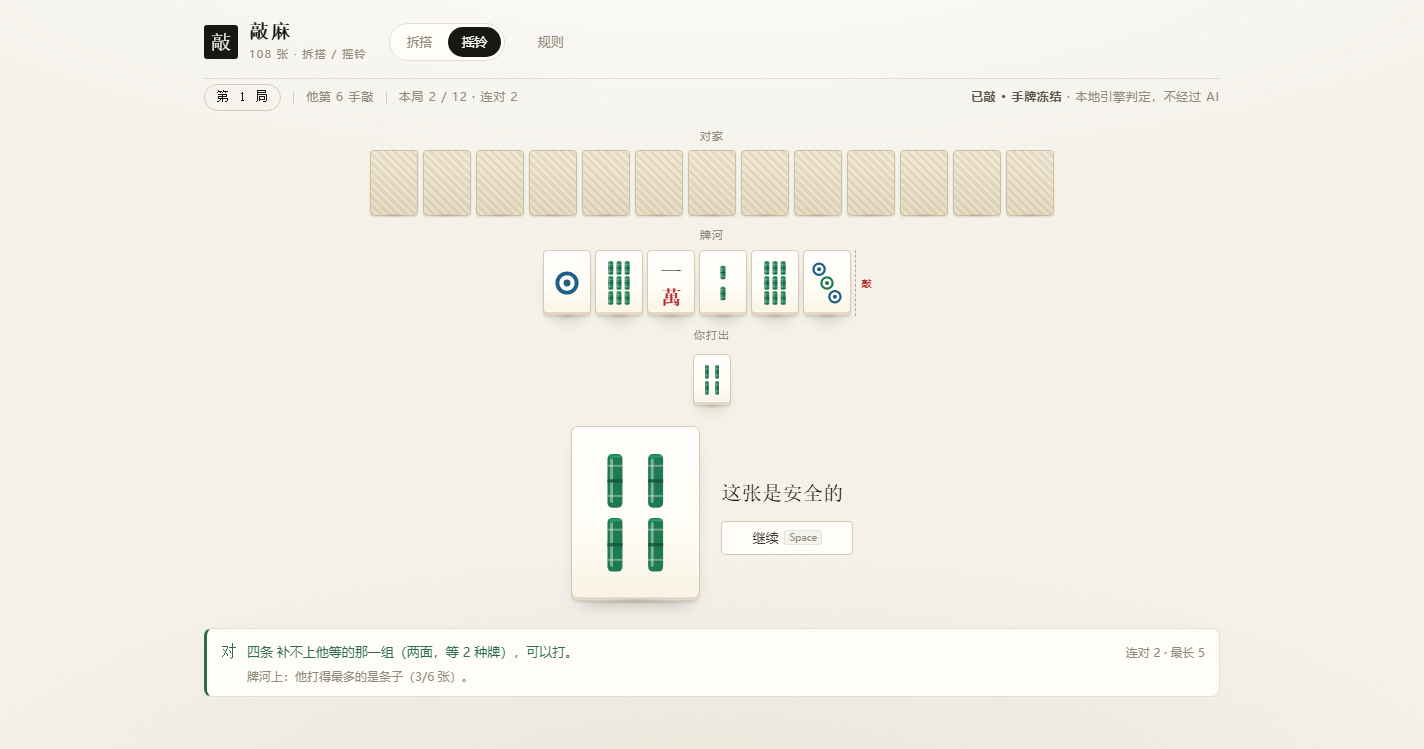
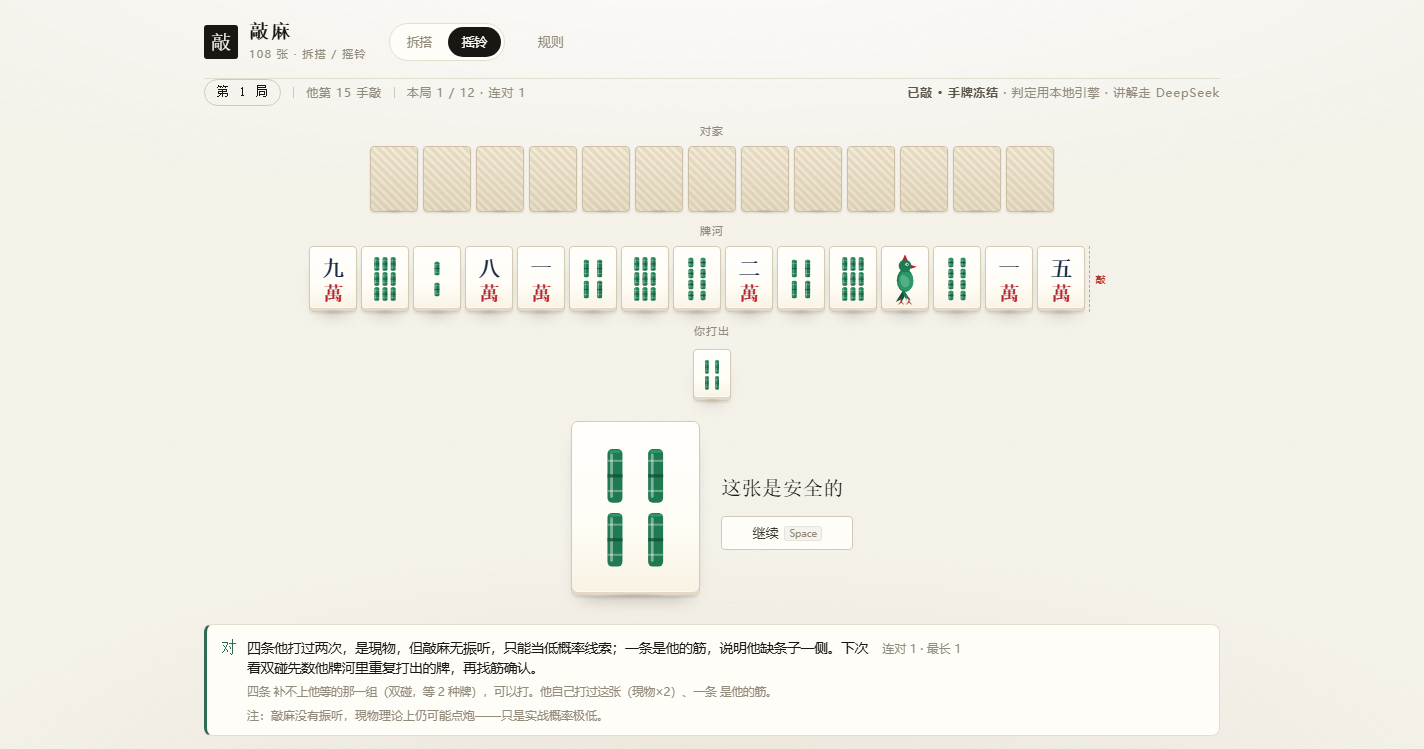
摇铃：讲解改走 DeepSeek（/api/read），判定仍用本地引擎

diff --git a/public/readmode.js b/public/readmode.js
@@ -131,6 +131,75 @@ export function createReadMode(els, { toast } = {}) {
     } catch { /* ignore */ }
   }
 
+  /* ---------- AI（DeepSeek）讲解 ---------- */
+
+  const coach = { seq: 0, abort: null, on: true, calls: 0, off: false };
+
+  async function askReadCoach(payload) {
+    const my = ++coach.seq;
+    coach.calls++;
+    if (coach.abort) coach.abort.abort();
+    const ctrl = new AbortController();
+    coach.abort = ctrl;
+    const t0 = performance.now();
+    let firstMs = 0;
+    let doneSeen = false;
+    const guard = setTimeout(() => { if (my === coach.seq && !doneSeen) ctrl.abort(); }, 12000);
+    try {
+      const res = await fetch('/api/read', {
+        method: 'POST',
+        headers: { 'content-type': 'application/json' },
+        body: JSON.stringify(payload),
+        signal: ctrl.signal,
+      });
+      if (!res.ok || !res.body) throw new Error('http ' + res.status);
+      const reader = res.body.getReader();
+      const dec = new TextDecoder();
+      let buf = '';
+      let ai = '';
+      while (true) {
+        const { done, value } = await reader.read();
+        if (done || my !== coach.seq) break;
+        buf += dec.decode(value, { stream: true });
+        let cut;
+        while ((cut = buf.indexOf('\n\n')) >= 0) {
+          const packet = buf.slice(0, cut);
+          buf = buf.slice(cut + 2);
+          const line = packet.split('\n').find((l) => l.startsWith('data:'));
+          if (!line) continue;
+          let ev;
+          try { ev = JSON.parse(line.slice(5).trim()); } catch { continue; }
+          if (ev.t) {
+            if (!firstMs) firstMs = Math.round(performance.now() - t0);
+            ai += ev.t;
+            if (my === coach.seq) paintAi(ai);
+          }
+          if (ev.done) {
+            doneSeen = true;
+            paintAi(ai, { firstMs, totalMs: Math.round(performance.now() - t0), cached: ev.cached, failed: ev.failed });
+          }
+        }
+      }
+      if (!doneSeen && my === coach.seq) paintAi(ai, { firstMs, totalMs: Math.round(performance.now() - t0), failed: true });
+    } catch {
+      if (my === coach.seq) paintAi('', { failed: true });
+    } finally {
+      clearTimeout(guard);
+    }
+  }
+
+  function paintAi(text, meta = {}) {
+    if (!els.fbAi) return;
+    if (!text) {
+      els.fbAi.hidden = true;
+      els.fbAi.textContent = '';
+      return;
+    }
+    els.fbAi.hidden = false;
+    els.fbAi.textContent = text.trim();
+    if (meta.failed) els.fbAi.textContent += '（AI 未接通，下面是本地引擎的结论）';
+  }
+
   /* ---------- 渲染 ---------- */
 
   function tileEl(tile, { small = false, mark = false } = {}) {
@@ -218,7 +287,7 @@ export function createReadMode(els, { toast } = {}) {
       (R.cleared ? ` · 已逃 ${R.cleared} 局` : '');
     els.tag.innerHTML = shown
       ? `<b>他听 ${sc.waits.map(tileName).join(' / ')}</b>`
-      : '<b>已敲 · 手牌冻结</b> · 本地引擎判定，不经过 AI';
+      : '<b>已敲 · 手牌冻结</b> · 判定用本地引擎 · 讲解走 DeepSeek';
 
     let q = '';
     if (R.state === 'question') q = '这张牌打出去，危不危险？';
@@ -272,16 +341,41 @@ export function createReadMode(els, { toast } = {}) {
         ? '注：敲麻没有振听，現物理论上仍可能点炮——只是实战概率极低。' : '',
     ].filter(Boolean).join(' ');
 
+    const plainWhy = why.replace(/<[^>]+>/g, '');
     els.fb.hidden = false;
     els.fb.className = `feedback ${correct ? 'ok' : 'bad'}`;
     els.fb.innerHTML =
       `<span class="fb-mark">${correct ? '对' : conservative ? '保守' : '错'}</span>` +
-      `<span class="fb-body">${why}` +
+      `<span class="fb-body">` +
+      `<span class="fb-ai" hidden></span>` +
+      `<span class="fb-local">${why}` +
       (R.state === 'over' && R.result === 'deal'
         ? ' 这一张打出去他就荣和了，本局结束。'
         : R.state === 'over' ? ' 这一局他没等到牌，你逃掉了。' : '') +
+      `</span>` +
       `${note ? `<span class="fb-note">${note}</span>` : ''}</span>` +
       `<span class="fb-score">连对 ${R.streak} · 最长 ${R.best}</span>`;
+
+    // AI 讲解：默认走 DeepSeek；没配 key 时服务端会回退到下面这段本地结论
+    els.fbAi = els.fb.querySelector('.fb-ai');
+    if (els.fbAi) { els.fbAi.hidden = true; els.fbAi.textContent = ''; }
+    if (coach.on) {
+      askReadCoach({
+        knockTurn: sc.knockTurn,
+        discardsText: sc.discards.map(tileName).join(' '),
+        shape,
+        waitKinds: k,
+        waitsText: R.state === 'over' ? sc.waits.map(tileName).join(' / ') : '',
+        tile: q,
+        danger: R.danger,
+        cluesText: clues.hard.join('、'),
+        softText: clues.soft.join('；'),
+        resultText: R.state === 'over'
+          ? (R.result === 'deal' ? '他荣和，本局结束' : '他没等到，本局结束')
+          : conservative ? '没点炮，但连对断了' : '还在继续',
+        fallback: plainWhy,
+      });
+    }
   }
 
   /* ---------- 流程 ---------- */

diff --git a/public/index.html b/public/index.html
@@ -104,7 +104,7 @@
         <span class="sep"></span>
         <span id="rdRate"></span>
         <span class="flex1"></span>
-        <span class="opp-tag" id="rdTag"><b>已敲 · 手牌冻结</b> · 本地引擎判定，不经过 AI</span>
+        <span class="opp-tag" id="rdTag"><b>已敲 · 手牌冻结</b> · 判定用本地引擎 · 讲解走 DeepSeek</span>
       </div>
 
       <div class="opp-panel">
@@ -184,7 +184,7 @@
       <div class="rule">
         <h3>摇铃（读牌）</h3>
         <p>左边切到 <b>摇铃</b>：给你一个<b>已经敲了</b>的对手——他的 13 张扣着，牌河摊开。每次只发一张牌问「打出去危不危险」，答对就继续下一张，答错（而这张正是他的听张）直接点炮、本局结束；答错但其实是安全的，只是白扣一张、连对断，不点炮。撑过 12 张算逃掉。</p>
-        <p>每题都会讲<b>为什么</b>：先看你出的这张能不能补进他那一组（他剩下的一组是什么形、等几种），再看牌河——他打过的同牌（現物）、他的筋、哪一门他丢得最多。<b>全部由本地引擎算</b>（<code>engine.mjs</code> 拆他的牌型、<code>opponent.mjs</code> 模拟他的摸打），<b>不经过 AI</b>，所以是标准答案，不是模型猜的。</p>
+        <p>判定（这张是不是他的听张）由<b>本地引擎</b>算：<code>opponent.mjs</code> 模拟他的摸打、<code>engine.mjs</code> 拆他的牌型，所以对错是标准答案。<b>讲解走 DeepSeek</b>：每题答完把「他的牌河 / 等的那一组是什么形 / 牌河线索（現物、筋、花色分布）」喂给模型，让它讲这手该怎么读、下次看什么；下面那行小字是引擎给出的结论原文。没配 API key 时只有引擎那行。</p>
         <p class="dim">局中不报他的具体听张——一报后面的题就开卷了。想知道他到底等哪几张，等本局结束（点炮或逃掉）时会翻开他的 13 张。</p>
       </div>
       <div class="rule">

diff --git a/public/style.css b/public/style.css
@@ -1329,3 +1329,18 @@ body.mode-read #replayBtn, body.mode-read #newBtn { display: none; }
   .opp-hand { gap: 4px; }
   .opp-river, .my-river { gap: 3px; }
 }
+
+.fb-ai { display: block; color: var(--ink); }
+.fb-ai[hidden] { display: none !important; }
+.fb-ai + .fb-local { display: block; margin-top: 4px; color: var(--muted); font-size: 11.5px; }
+.fb-local { display: block; }
+
+.feedback .fb-body { max-width: 82ch; }
+.fb-ai { font-size: 13.5px; line-height: 1.55; }
+.fb-local { font-size: 11.5px; }
+
+@media (max-width: 560px) {
+  .feedback { flex-wrap: wrap; }
+  .feedback .fb-body { max-width: 100%; }
+  .feedback .fb-score { flex: 1 1 100%; text-align: right; margin-top: 2px; }
+}

diff --git a/README.md b/README.md
@@ -54,7 +54,7 @@ node server.mjs
 
 ## 摇铃练习
 
-判定与讲解**全部在本地算**：`engine.mjs` 拆他的牌型（哪一组在等、等什么形、几种牌），`opponent.mjs` 用同一个最优出张器模拟他的摸打直到敲牌。**摇铃模式不调用 AI**——没有网络请求，也就没有「模型猜的」这回事。
+判定由**本地引擎**给出（`opponent.mjs` 模拟他的摸打、`engine.mjs` 拆牌型），所以对错是标准答案；**讲解走 DeepSeek**（`/api/read`），每题把牌河、他那组的形、现物/筋/花色线索喂给模型，让它讲「这手该怎么读、下次看什么」，答案下面那行小字是引擎结论原文。没配 key 时只显示引擎结论。**摇铃模式不调用 AI**——没有网络请求，也就没有「模型猜的」这回事。
 （读牌 / 防点炮）
 
 左上角可以在两种模式之间切：**拆搭**（判断该打哪张）与**摇铃**（判断这张会不会点炮）。
